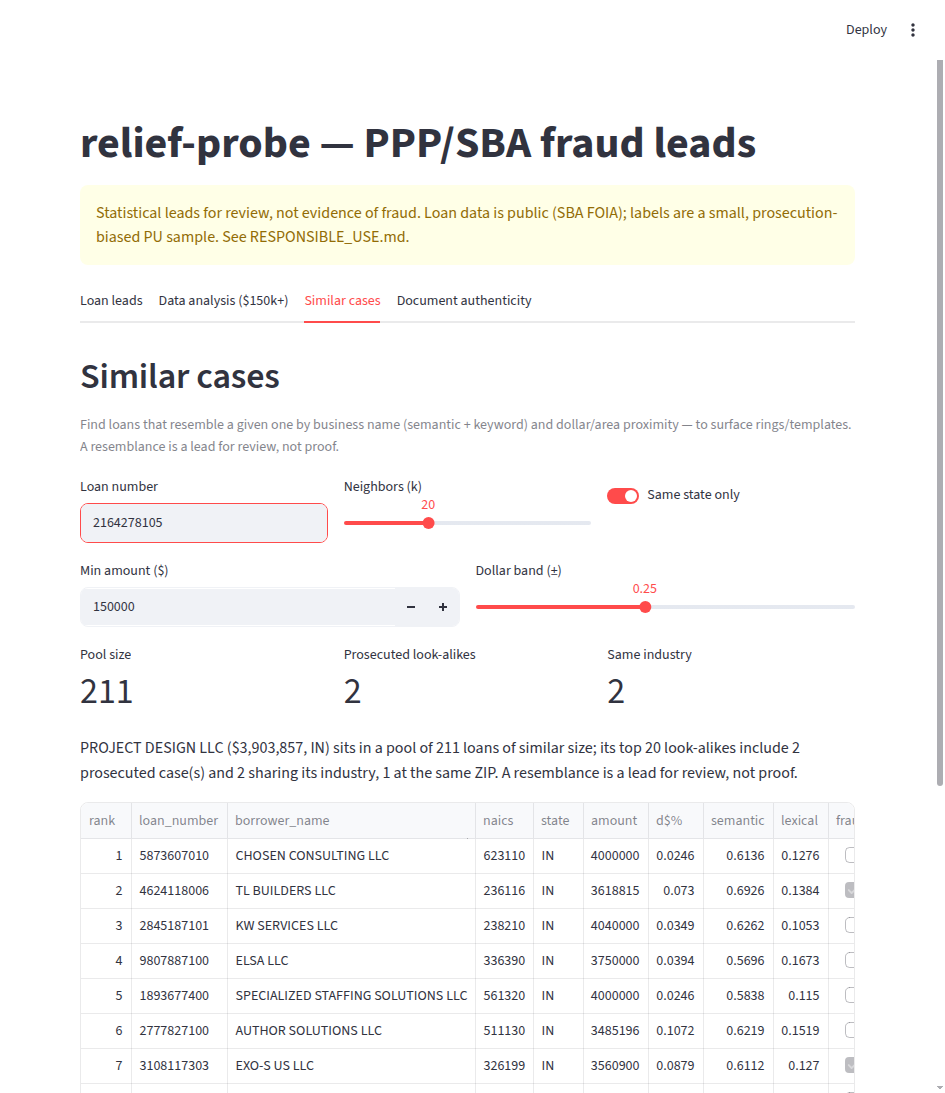
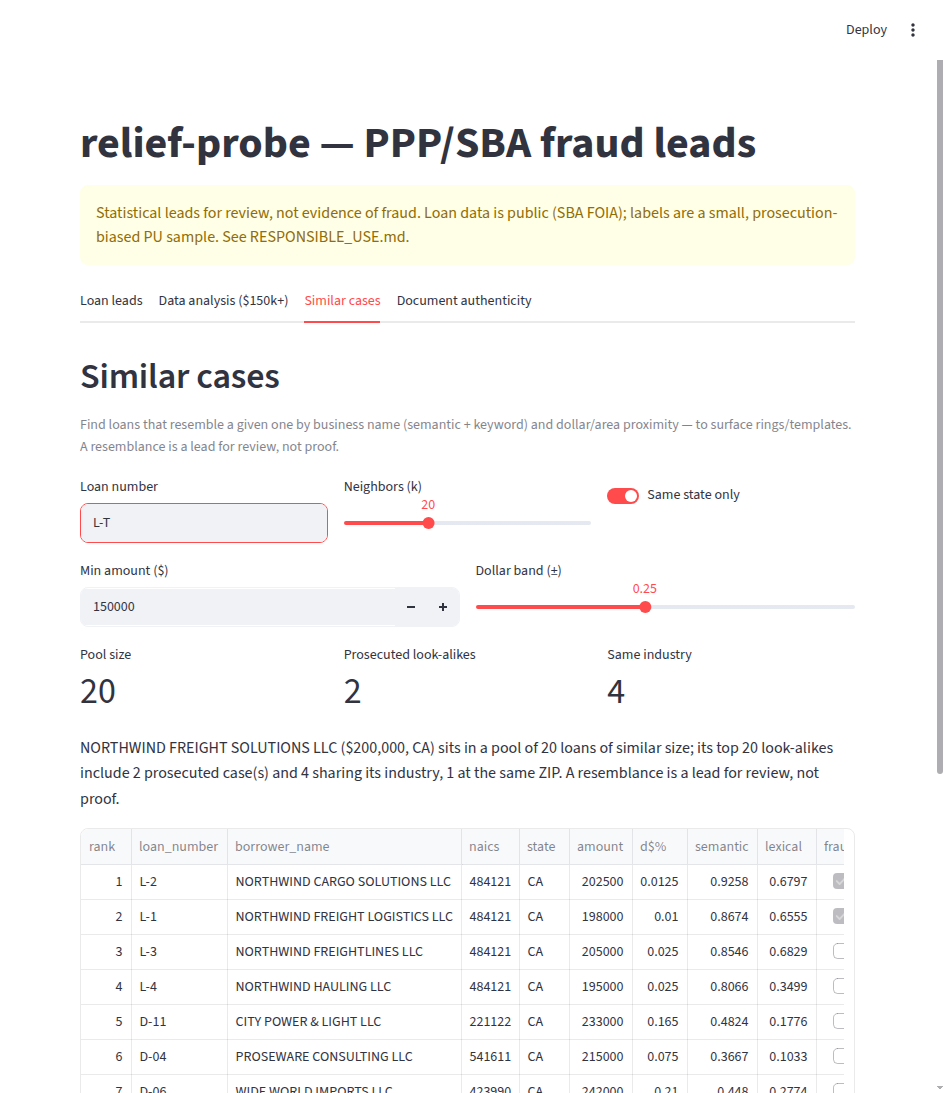
docs: anonymize all real entity/person names + synthetic-data screenshot (public-readiness)
Replace every real business/defendant name in the committed docs (LABEL_PRECISION,
NEXT_STEPS) with generic descriptions — the failure-mode / fuzzy-match categories are
the point, not the identities. Re-capture the dashboard hero screenshot against a
synthetic warehouse using recognizably-fictitious sample-data brands (Northwind /
Contoso / Proseware / …) so no real entity appears anywhere; caption notes it's demo
data + points to the real 3.4× homophily result. Removes the named-individual /
defamation surface ahead of any public release.

diff --git a/docs/LABEL_PRECISION.md b/docs/LABEL_PRECISION.md
@@ -32,24 +32,25 @@ TP). Wilson 95% CI ≈ **[72%, 92%]**. So roughly **1 in 8 labels is a false pos
 
 ### Representative false positives
 
-- **"SELF EMPLOYED" (WV)** — a generic borrower-name placeholder matched to a release
-  about an individual's $20,832 loan. Name collision on a non-name.
-- **"KANSAS CITY LLC" (KS)** — matched the word "Kansas City" (the *city* dateline) in a
-  release charging three named men; the business name is coincidental.
-- **"PHOENIX BEHAVIORAL HEALTH" in NJ *and* WI** — two different loans both matched to one
-  release about a single PA defendant (no-state tier). At most one could be real; both are
+*(Borrower/defendant names anonymized below; the failure modes are the point.)*
+
+- **A generic placeholder borrower-name** (a "SELF EMPLOYED"-style field value) matched a
+  release about an individual's small loan. Name collision on a non-name.
+- **A business whose name contains a city word** matched that city appearing as the
+  *dateline* of a release charging unrelated, separately-named defendants — coincidental.
+- **A same-named behavioral-health business in two states** both matched one release about a
+  single out-of-state defendant (no-state tier). At most one could be real; both are
   wrong-state.
-- **"COALITION FOR SOCIAL JUSTICE AND REFORM"** — matched a general MOU/announcement
-  release (alleged amount mis-parsed as $860B), not a charging document for this entity.
+- **A civic/non-profit-sounding name** matched a general announcement release (alleged
+  amount mis-parsed into the billions), not a charging document for that entity.
 
 ### A confirmed *true*-positive pattern (not an FP)
 
 Many loans share `alleged_amount = $14.7M` — these are **one real 22-defendant PPP ring**
-(a single release naming distinctly-named co-defendants: CONTINUING SUCCESS, D PARKER
-HOLDINGS, INFINITE EDUCATION SERVICES, RK PAINTING, …). Correctly fanned out to each
-charged business. (Side note: a few labels carry a mis-extracted `alleged_amount` — e.g.
-Fujisoft America's real $1.05M settlement stored as $1.8B — but the *label itself* is
-correct; only that metadata field is noisy.)
+(a single release naming many distinctly-named co-defendant businesses). Correctly fanned
+out to each charged business. (Side note: a few labels carry a mis-extracted
+`alleged_amount` — e.g. one company's real ~$1M settlement stored as ~$1.8B — but the
+*label itself* is correct; only that metadata field is noisy.)
 
 ## Implications
 
@@ -92,16 +93,18 @@ unrelated figure and the LLM over-matching the name)?
 to or better than the exact tier (84–88%)** — the exact-dollar gate is a strong precision
 anchor, and the LLM only adjudicates the name on top of it.
 
+*(Examples are anonymized/paraphrased; the category is the point.)*
+
 - **72 true positives** — exact business name + exact loan amount in the release, incl. the
-  fuzzy categories the exact resolver can't reach: legal-suffix/spelling variants
-  (`5TH Marketing Group` → "Fifth Marketing Group, LLC"; `TRK COSTRUCTION`[sic] → "TRK
-  Construction") and person-name sole-props (`CCF Acoustical Systems` → "Craig C. Franck").
+  fuzzy categories the exact resolver can't reach: legal-suffix/spelling variants (a
+  number-word → its spelled-out form; a typo'd `COSTRUCTION` → `Construction`) and
+  person-name sole-props (the release names the *owner* individually rather than the LLC).
 - **6 ambiguous** — the exact amount matches and the release names the *defendant/scheme*
-  but not the business by name (I AND F Construction, Tomi Japanese Seafood, AWE Watersports,
-  EHT Esan, Navatek CFD, Trex Enterprise). Mostly legitimate sole-prop recoveries (release
-  names the individual), but the business link is unconfirmed from the release alone.
-- **1 false positive** — `UGOTEM` ($983,000): the amount collided with a *wages* figure in a
-  "Spite the Movie, LLC" case; different entity, lower confidence (0.78).
+  but not the business by name (e.g. a restaurant, a watersports LLC, an engineering firm).
+  Mostly legitimate sole-prop recoveries (release names the individual), but the business
+  link is unconfirmed from the release alone.
+- **1 false positive** — one loan ($983,000): the amount collided with a *wages* figure in
+  an unrelated case naming a different entity; lower confidence (0.78).
 
 ### Per-tier (the actionable finding)
 

diff --git a/docs/NEXT_STEPS.md b/docs/NEXT_STEPS.md
@@ -386,10 +386,10 @@ Built the three the user picked (1, 3, 4 — skipped the agentic-KYB agent):
 - **Real-data verdict (validated, FULL sweep):** the full pass adjudicated **8,274**
   amount-blocked candidates in ~50 min and recovered **+72 new labels** (a first capped
   400-candidate run had found 7) — **325 → 404 distinct labeled loans (+24%)**, 79 total
-  marked `amount+llm`. Exactly the fuzzy categories the exact resolver can't reach: legal-
-  suffix/spelling variants (*5TH Marketing Group ↔ "Fifth Marketing Group"*, *SLIFCO
-  ELECTRIC, L.L.C. ↔ "Slifco Electric, LLC"*) and person-name sole-props (*CCF Acoustical
-  Systems → "Craig C. Franck"*, *Unimentors LLC → "Mark Ethan Jermain a/k/a …"*). Every
+  marked `amount+llm`. Exactly the fuzzy categories the exact resolver can't reach (examples
+  anonymized): legal-suffix/spelling variants (a number-word ↔ its spelled-out form; an
+  `L.L.C.` ↔ `LLC` punctuation variant) and person-name sole-props (the release names the
+  *owner* individually, or an `a/k/a` alias, rather than the LLC on the loan). Every
   match amount-gated; most at conf 0.99. A real recall win on the binding constraint —
   +24% labels. (To revert: `DELETE FROM fraud_cases WHERE match_method='amount+llm'`.)
 - **Honest caveat / next rigor step:** these `amount+llm` labels are NOT yet hand-validated

diff --git a/README.md b/README.md
@@ -13,7 +13,7 @@ Reproducible by a stranger from public federal files (SBA FOIA loan data + DOJ/S
 
 ![relief-probe dashboard — Similar cases tab](docs/images/similar-cases.png)
 
-*The dashboard's "Similar cases" tab: given an already-charged loan, find its look-alikes by business-name + dollar + area similarity — surfacing the rest of a coordinated ring. A resemblance is a lead for review, not proof.*
+*The dashboard's "Similar cases" tab — shown on **synthetic demo data** (fictitious sample-company names). Given a loan, find its look-alikes by business-name + dollar + area similarity, surfacing a coordinated ring and flagging which neighbors are already prosecuted. A resemblance is a lead for review, not proof. (On the real warehouse, prosecuted loans' nearest look-alikes are ~3.4× enriched for fraud — see Results.)*
 
 ## What it is
 